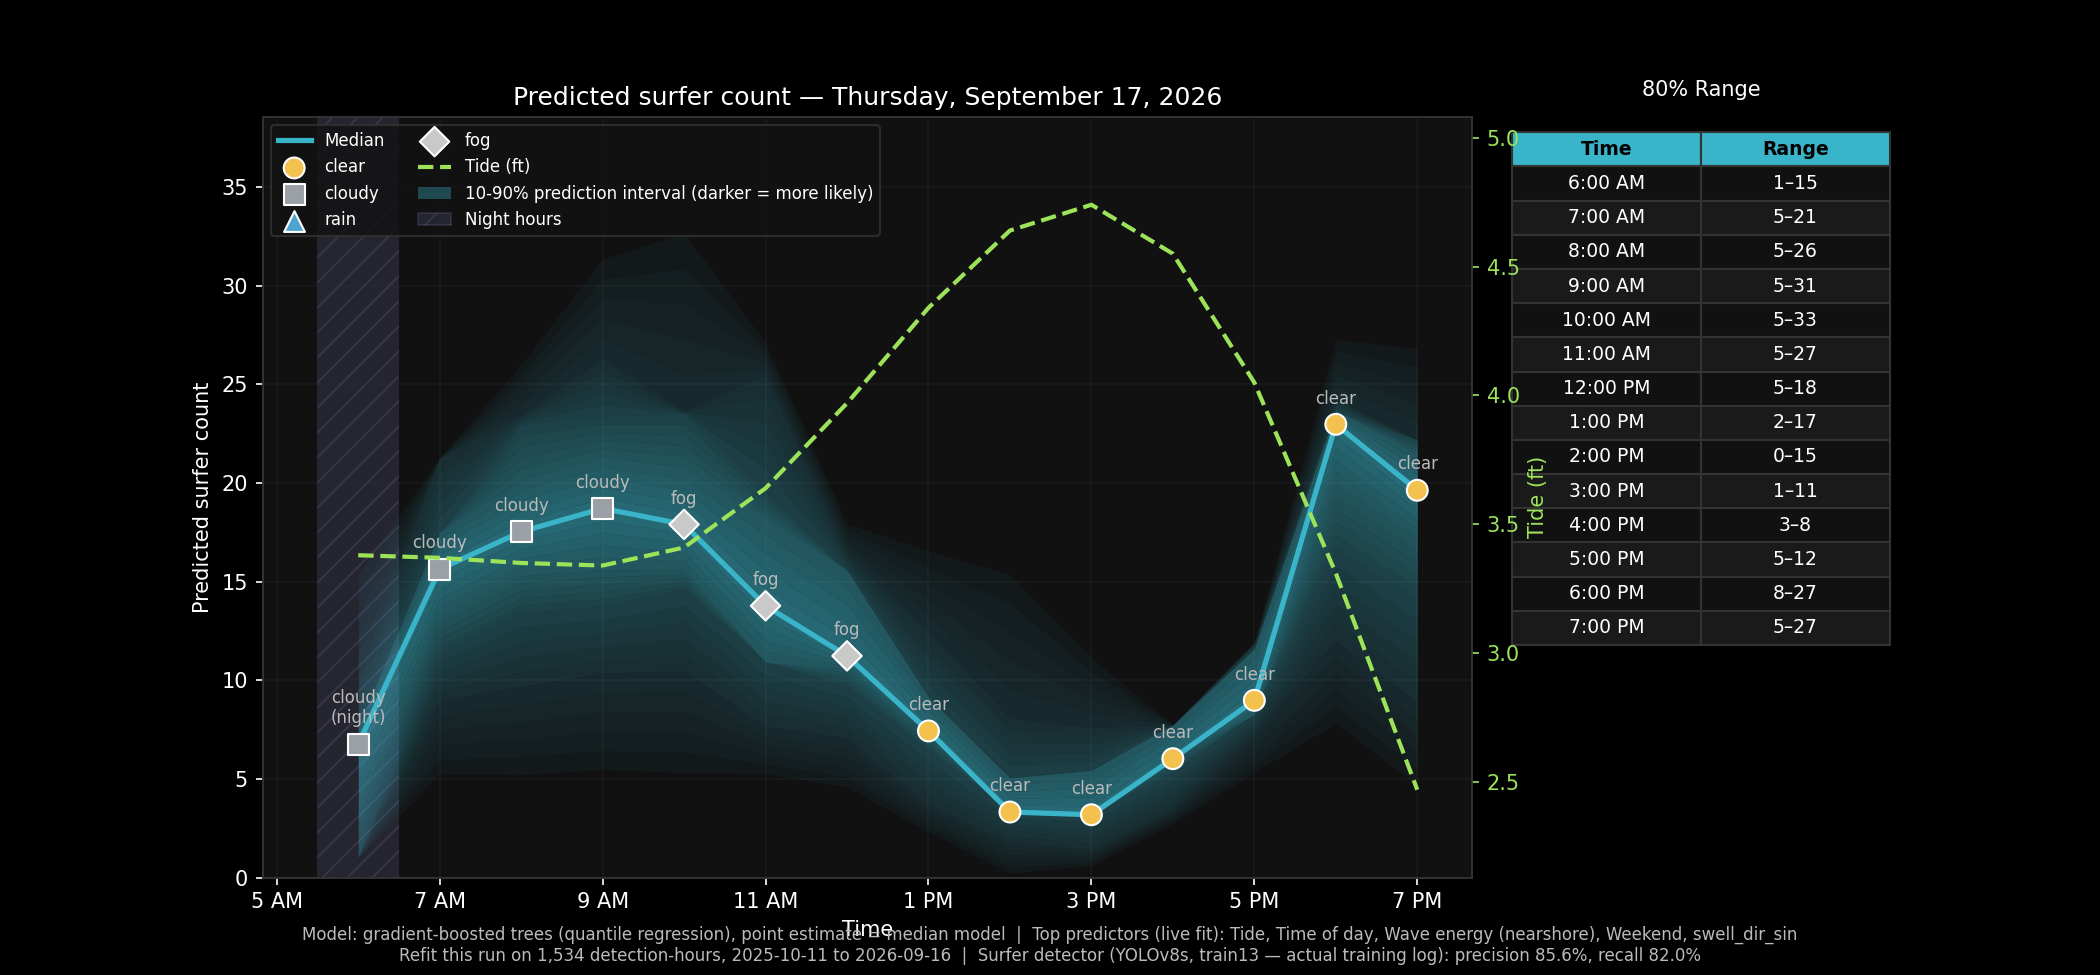
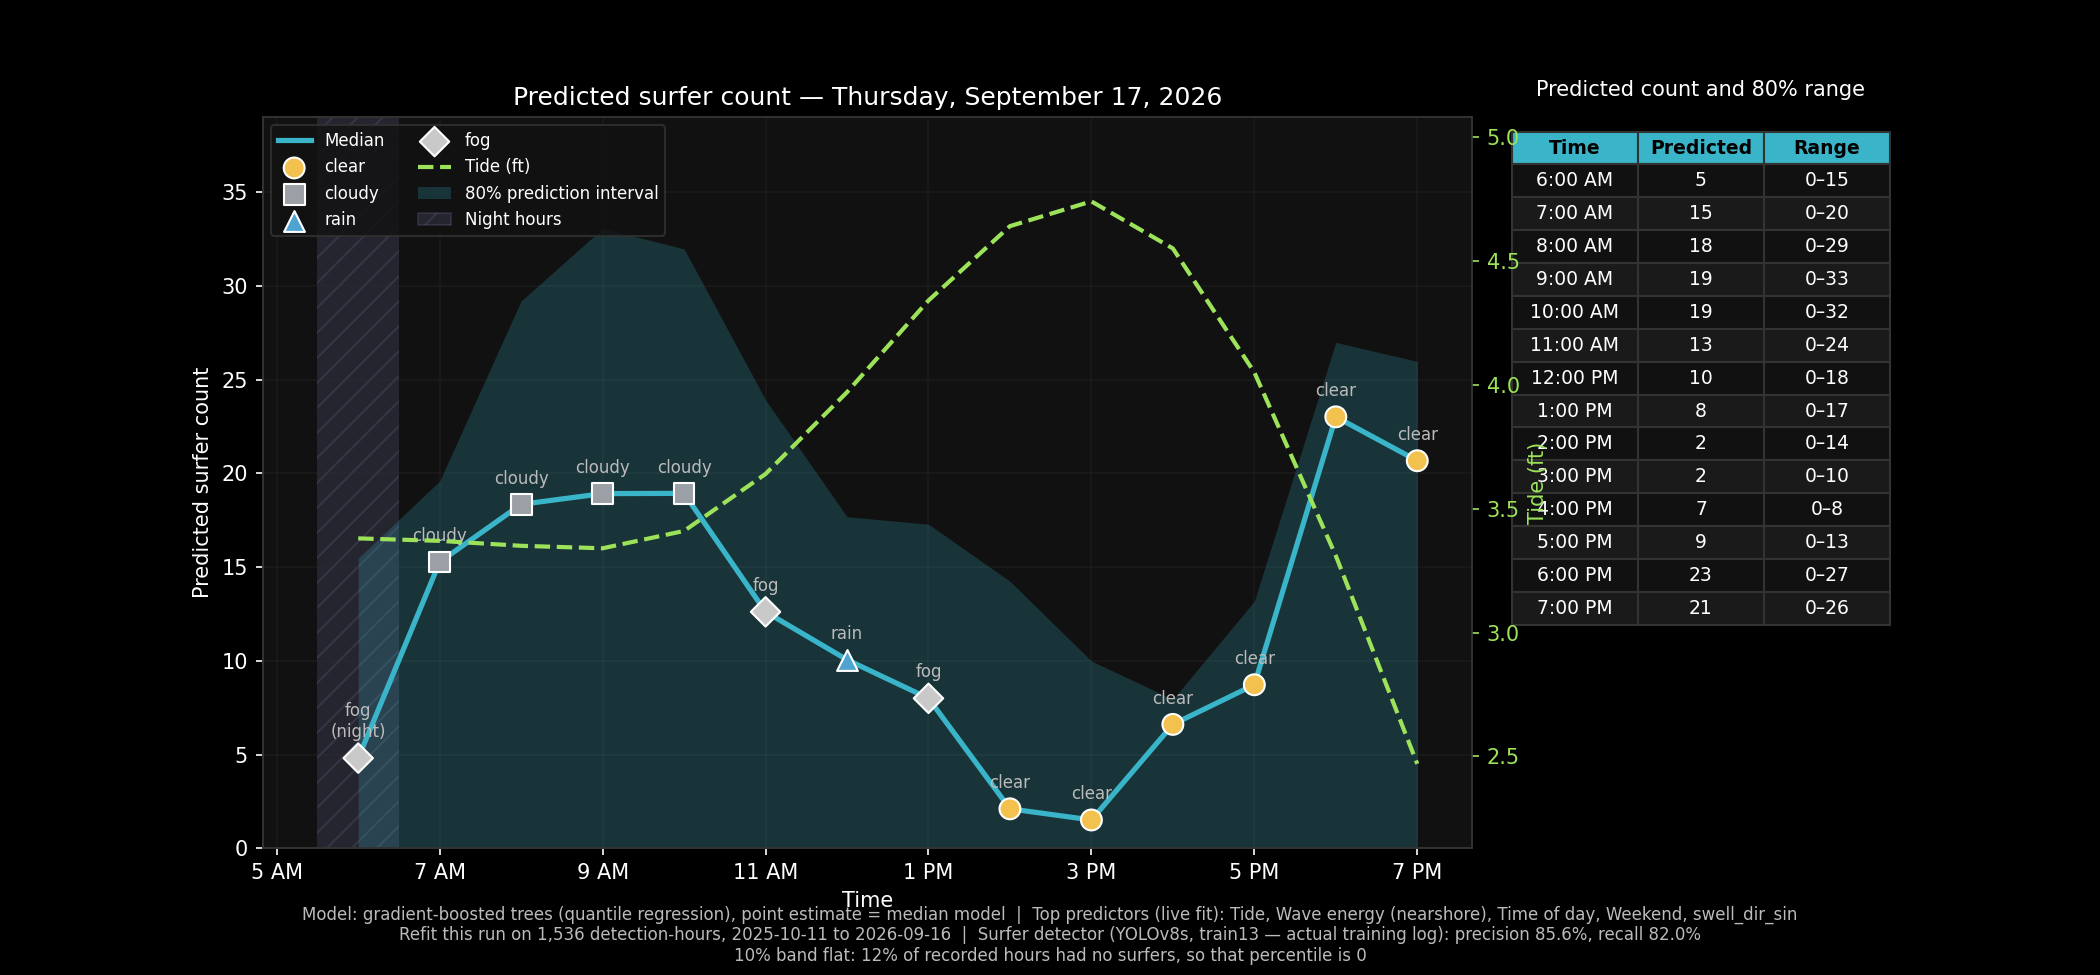
Automated: update daily surfer count chart (2026-09-16)

diff --git a/README.md b/README.md
@@ -1,85 +1,18 @@
-# Sum Surfers
+# Sum Surfers - An Automated Surfer Crowd Size Forecasting Tool
 
-Automated surfer counting from a beach camera.
+## Project Summary
 
-## What This Project Does, In Plain Terms
+This project collects images from a shoreline video camera and tries to answer two questions:
+- **_How many surfers were out are out there each hour of each day in the past?_**
+- **_How many will there be at each hour of the day in the upcoming days?_**
 
-There's a live camera pointed at a surf spot in Santa Cruz, California. This project watches that camera and tries to answer two simple questions:
-1. **_How many surfers are out there?_**
-2. **_How many will there be at different times in the upcoming days?_**
-
-Why Does this matter?  
-
-**_As a surf spot gets more crowded, the competition for each wave becomes more intense.  For this reason many surfers like to know how crowded it will be and some may decide to go at less crowded times._**
-
-Here's the basic idea, step by step:
-
-1. **Gather video.** Each week, the project downloads short clips
-   from the camera.
-2. **Pull out a picture.** From each video clip, it grabs one still photo and
-   crops it down to just the part of the water where surfers actually
-   are.
-3. **Count the surfers in the picture.** This is the hard part, and it's
-   done by a computer-vision model — a program that has been trained on
-   thousands of hand-labeled examples to recognize what a surfer in the
-   water looks like, and draw a box around each one it finds. This is
-   the same basic kind of technology used in things like self-driving
-   cars (spotting pedestrians) or photo apps (finding faces). The more
-   examples the model has seen, the better it gets at telling a real
-   surfer apart from, say, a bird, a shadow, or a wave.
-4. **Keep score over time.** Every count gets logged with the date, time,
-   and conditions (tide, weather, etc.), building up a running history
-   of how many surfers show up throughout the day and across the year.
-5. **Make a forecast.** Using that history, a second, simpler model looks for patterns — for example, "it's a weekend, the tide is dropping, and it's sunny" tends to mean more surfers — and uses those patterns to predict roughly how crowded the spot will be later today, hour by hour. It's the same general idea as a weather forecast: not a  guarantee, just an educated, data-backed guess with a likely range attached to it.
-
-The rest of this README below goes into more technical details.
-
-## Technical Overview
-
-This project downloads short video clips around daylight hours, extracts still image frames, runs an object detector on tiled sections of each frame, stores per-clip surfer counts averaged across those frames, and forecasts future surf crowd levels using a variety of real-world conditions as inputs.  In brief, the project does the following:
-
-1. Downloads a short video clip from the camera from each hour during daylight hours (real dawn to dusk for that
-   date, not fixed clock times), into a dated folder.
-2. Extracts 3 cropped [regions of interest](docs/HOW_IT_WORKS.md#term-roi)
-   from each clip — a primary frame plus 2 "side" frames a few seconds
-   apart — so one count isn't at the mercy of a single unlucky frame
-   (someone briefly hidden behind a wave, a bird flying through, etc.).
-3. Checks the primary frame's brightness and blur before running
-   detection; frames too dark or too blurred (fog, dusk, a wet lens) are  skipped entirely rather than counted wrong. 
-4. Splits each frame into 4 overlapping horizontal tiles — small, distant surfers are easier for the detector to find within a tile than scattered across one wide frame — runs the object detection model [YOLOv8](docs/HOW_IT_WORKS.md#main-resources) on each tile, then
-   merges detections that land on a tile boundary back into one count
-   per frame.
-5. Averages the 3 per-frame counts into one per-clip count, and appends
-   the result — plus the 3 raw per-frame counts, for later analysis —
-   to `data/predictions/predictions.csv`.
-6. Collects the real-world conditions that help explain and forecast
-   crowd size — weather, tide height, swell, wind, and wave energy for
-   the spot, today and tomorrow — and matches each hour of that data to
-   the surfer counts already logged, building up a table the forecast
-   model can learn from.
-7. Feeds that combined table (past counts + the conditions at the time)
-   into a forecasting model, which learns which conditions tend to mean
-   more or fewer surfers, then uses tomorrow's forecasted conditions to
-   predict an hour-by-hour surfer count for the coming day, along with a
-   likely range around each prediction (see "Surfer Count Prediction
-   Model" below).
-8. Once a day, redraws the detection-review image (a recent camera frame
-   with the model's boxes drawn on it) and the daily forecast chart with
-   the latest data, and automatically commits both images to this
-   repository — which is why the two images below update on their own
-   each day without anyone manually running anything.
-
-See [HOW_IT_WORKS.md](docs/HOW_IT_WORKS.md) for a full walkthrough of the
-detection pipeline and a glossary of every term used in this repo,
-[PROJECT_HISTORY.md](docs/PROJECT_HISTORY.md) for how it was built and
-tuned over time, and [PROJECT_FILES.md](docs/PROJECT_FILES.md) for a map
-of what every file in this repo does.
+**_This matters to me as a surfer because the competition for each wave becomes more intense as the crowd size increases.  It helps me choose when to go and know what to expect. _**
 
 <!-- DAILY_CHART_START -->
-#### A Recent Surfer Detection Count: Wednesday, September 16, 2026, 6:26 AM
+#### A Full Day of Surfer Detections: Tuesday, September 15, 2026
 
-Each green box below contains a surfer, according to the object detection model.  Each number above a box indicates the probability that the object is a surfer.  Look carefully and you may find additional surfers that the model missed or other objects which are misclassified as surfers - like the wind sock at the bottom center of the photo.
-![Latest detection review](data/charts/latest_detection.png)
+Each green box below contains a surfer, according to the object detection model.  Each number above a box indicates the probability that the object is a surfer.  Look carefully and you may find additional surfers that the model missed or other objects which are misclassified as surfers - like the wind sock at the bottom center of the photo.  Each frame is one hour of that day, one second apart, and the ends of the camera's view are cropped off so the surfers are big enough to see.
+![Detections through Tuesday, September 15, 2026](data/charts/latest_detection.gif)
 
 #### The Surfer Crowd Forecast for: Thursday, September 17, 2026
 
@@ -88,17 +21,100 @@ Once enough hours and days were gathered along with weather and surf conditions,
 
 <!-- DAILY_CHART_END -->
 
+## How It Works, Step by Step
+
+Each step below starts with the plain-language version, then the technical
+detail and a link to the in-depth write-up.
+
+1. **Gather video clips.**
+   ***Every hour of daylight, the project downloads a short video clip from a camera pointed at the surf spot.***
+   Clip collection runs from real dawn to real dusk for that date — civil
+   twilight, taken from the camera provider's own sunlight forecast — rather
+   than fixed clock times, so it follows the seasons instead of wasting
+   requests on darkness. Clips land in a dated folder and are deleted once
+   frames have been pulled from them.
+   → [The pipeline, end to end](docs/HOW_IT_WORKS.md#the-pipeline-end-to-end)
+
+2. **Pull out still frames.**
+   ***From each clip it saves three snapshots taken a few seconds apart, cropped down to just the patch of water where surfers sit.***
+   The three frames sit at 1.0s, 2.5s and 4.0s into the clip, and each is
+   cropped to the same fixed [region of interest](docs/HOW_IT_WORKS.md#term-roi)
+   — a 1280×180 strip. Three frames rather than one because counts on the same
+   stretch of water swing by several surfers within seconds as waves pass and
+   people duck under; averaging cuts that noise.
+   → [Multi-frame count averaging](docs/HOW_IT_WORKS.md#multi-frame-count-averaging)
+
+3. **Screen out unusable pictures.**
+   ***Frames too dark or too blurry to count are thrown away rather than guessed at.***
+   Each primary frame is checked for brightness and for
+   [Laplacian variance](docs/HOW_IT_WORKS.md#term-laplacian-variance), a
+   standard measure of how much fine detail an image holds. Fog, dusk and a
+   wet lens all fail it. Rejected frames are still logged with their scores,
+   just never counted — a wrong number is worse than a missing one.
+   → [Image-quality gate](docs/HOW_IT_WORKS.md#image-quality-gate)
+
+4. **Find the surfers.**
+   ***A model trained on thousands of hand-labeled examples draws a box around every surfer it can find.***
+   Each frame is split into four overlapping horizontal tiles and
+   [YOLOv8](docs/HOW_IT_WORKS.md#term-yolo) runs on each one. Tiling matters
+   because a surfer is a handful of pixels in a 1280-pixel-wide strip; within a
+   tile, the same surfer is proportionally much larger. This is the same family
+   of technology behind pedestrian detection in self-driving cars.
+   → [The model: YOLOv8](docs/HOW_IT_WORKS.md#the-model-yolov8)
+
+5. **Merge the overlaps.**
+   ***A surfer sitting on the seam between two tiles would be counted twice, so overlapping boxes are merged back into one.***
+   Detections below a confidence threshold of 0.195 are dropped, then
+   [non-maximum suppression](docs/HOW_IT_WORKS.md#term-nms) merges boxes that
+   overlap across tile boundaries. Two zones that reliably produce false
+   positives — a tree branch and a wind sock — are filtered by position.
+   → [Confidence threshold and NMS, concretely](docs/HOW_IT_WORKS.md#confidence-threshold-and-nms-concretely)
+
+6. **Keep score over time.**
+   ***Each clip's three counts become one number, saved with its date and time.***
+   The mean of the three frames is stored as that hour's count, along with all
+   three raw values and their spread, so later analysis can tell a genuinely
+   busy hour from a noisy one. This growing history is what the forecast model
+   learns from — currently over 1,500 counted hours.
+   → [The pipeline, end to end](docs/HOW_IT_WORKS.md#the-pipeline-end-to-end)
+
+7. **Record the conditions.**
+   ***Tide, swell, wind, weather and wave energy for that hour are stored next to every count.***
+   Predictors come from the surf forecast provider's hourly endpoints, plus
+   observed weather from Open-Meteo's archive and tide heights from NOAA, each
+   matched to the nearest local hour of an existing count. Nearshore wave
+   energy turns out to be the second most useful predictor after tide.
+   → [Predictors: weather, tide, swell, wind, energy, consistency](docs/HOW_IT_WORKS.md#predictors-weather-tide-swell-wind-energy-consistency)
+
+8. **Forecast the crowd.**
+   ***A second model learns which conditions bring people out, then predicts tomorrow hour by hour with a likely range around each number.***
+   Gradient-boosted trees fit the counts against those conditions: one model
+   for the expected count, two more for the edges of an 80%
+   [prediction interval](docs/HOW_IT_WORKS.md#term-prediction-interval). It is
+   a forecast, not a guarantee — see [Model Calibration](#model-calibration)
+   for how often that range actually holds, measured rather than claimed.
+   → [Known limitations](docs/HOW_IT_WORKS.md#known-limitations-short-version)
+
+9. **Publish it automatically.**
+   ***Every night the animation and chart above are rebuilt and posted here on their own.***
+   A scheduled job runs the whole pipeline after dusk, rebuilds both images
+   from the day's fresh data, and commits them to this repository. Nobody runs
+   anything by hand, which is why the two images above are never more than a
+   day old.
+   → [The pipeline, end to end](docs/HOW_IT_WORKS.md#the-pipeline-end-to-end)
+
 ### How to Read the Daily Chart
 
 - **Aqua line** — the model's single best-guess ("median") count for each
   hour.
-- **Shaded gradient + side table ("80% Range")** — the model's
-  [prediction interval](docs/HOW_IT_WORKS.md#term-prediction-interval): the range the
-  real count is expected to fall in on most days, shown both as a
-  gradient around the line (darker = more likely, fading out toward the
-  10%/90% edges) and as plain numbers in the table. **It isn't perfectly
-  calibrated** — see [Model Calibration](#model-calibration) below for
-  the real, measured accuracy of this range, not just the claimed one.
+- **Shaded band + side table** — the model's
+  [prediction interval](docs/HOW_IT_WORKS.md#term-prediction-interval): the
+  range the real count is expected to fall in on most days, shown as a single
+  shaded 80% band around the line and repeated as plain numbers in the table,
+  where the "Predicted" column is that hour's single best guess and "Range" is
+  the band. **It isn't perfectly calibrated** — see
+  [Model Calibration](#model-calibration) below for the real, measured accuracy
+  of this range, not just the claimed one.
 - **Weather markers** (circle/square/triangle/diamond) — the model's
   predicted weather condition for that hour, plotted at the median
   count.
@@ -120,8 +136,8 @@ of how the forecast model was built, tested, and tuned.
 
 ## Object Detection: Model, Training Data & Tools
 
-The step that actually counts surfers in a picture — step 3 in the plain
-overview above — is an **object detection** model. Object detection is a
+The step that actually counts surfers in a picture — step 4 above — is an
+**object detection** model. Object detection is a
 computer-vision task: given an image, find every instance of a chosen
 object type and draw a box around each one, rather than just labeling
 the image as a whole ("this photo contains a surfer" vs. exactly where
